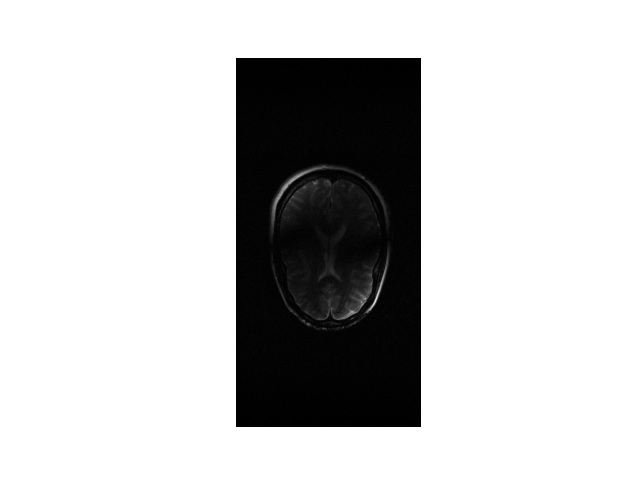
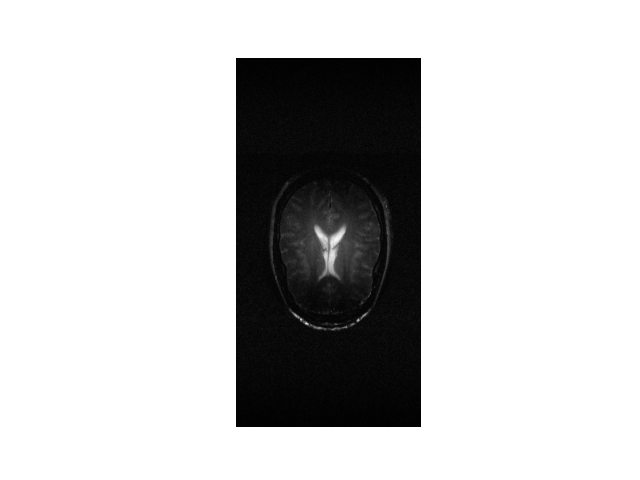
invert fftshift on kspace

Changed region(s): [[0.4062, 0.3438, 0.625, 0.6875], [0.5938, 0.5625, 0.625, 0.5938]]

diff --git a/my_CDLNet/sense.py b/my_CDLNet/sense.py
@@ -43,7 +43,7 @@ def main(args):
     # Squeeze smaps, also conjugate since they come as conjugated form
     # smaps = smaps[0, :, :, :].conj()
     kspace = torch.from_numpy(kspace)  
-    smaps = walsh_smaps(fftc(fft.fftshift(kspace[None])))
+    smaps = walsh_smaps(fftc(kspace[None]))
     smaps = torch.squeeze(smaps.conj())
     # Detect acceleration maps
     #mask = detect_acc_mask(kspace)
